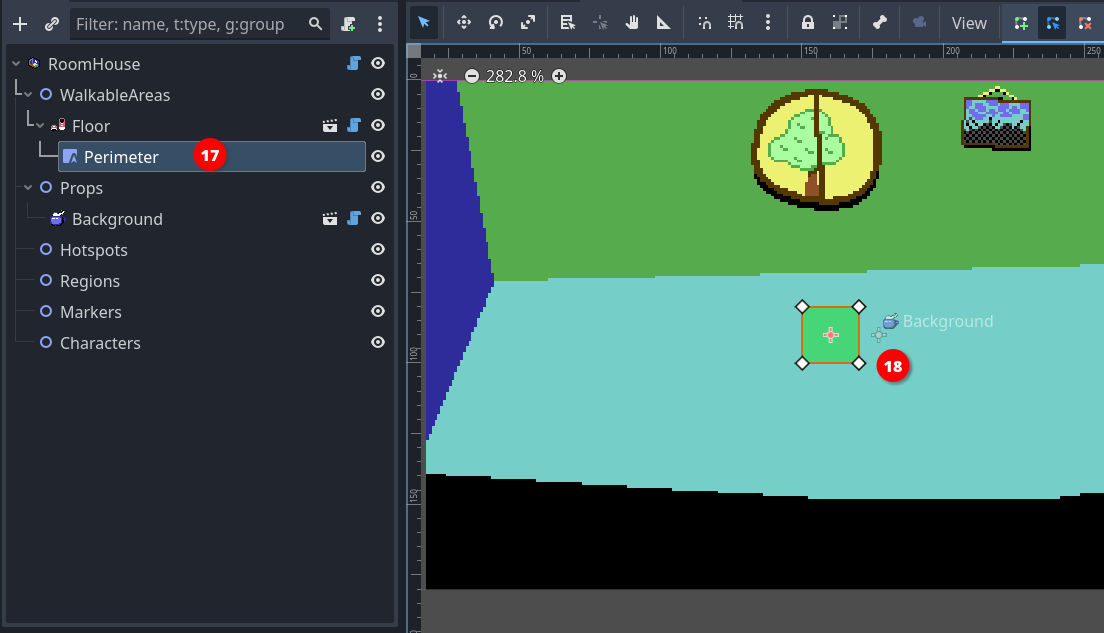
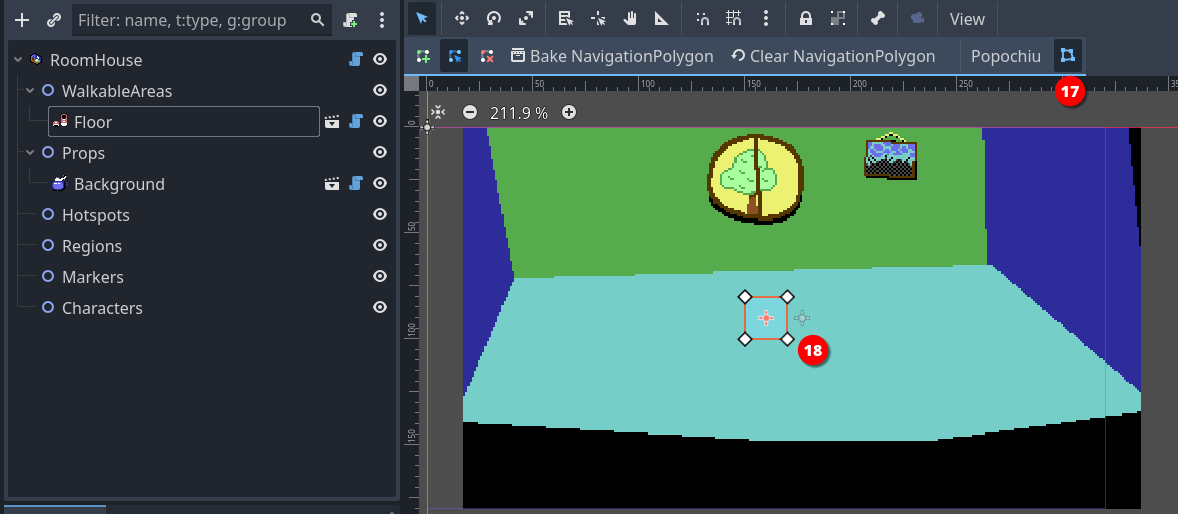
refs #40: Documentation section for the GUIs. (#261)
* refs #40: WIP on the documentation section for the GUIs.
* WIP fixed a mistyped warning block.
* refs #40: Small rephrasing.
* refs #40: "Getting Started" section on GUIs is complete and should introduce new users to the main concepts.

diff --git a/docs/src/getting-started/creating-a-game-stub/customize-the-game-ui.md b/docs/src/getting-started/creating-a-game-stub/customize-the-game-ui.md
@@ -1,0 +1,224 @@
+---
+weight: 1570
+title: Customize the Game UI
+---
+
+## Customize the Game UI
+
+!!! warning "Disclaimer"
+	GUIs are an important part of the player's experience and, among the many aspects that all adventure games have in common, it's the one that tends to get more customization and personal touches.
+
+	The variety in the GUIs panorama makes them a complex topic, one that requires **dedicated effort** and some **solid Godot-related skills** to give good results.
+
+	We will eventually provide a complete guide for custom GUIs that will cover every aspect, but this is out of the scope of this tutorial, at the moment.
+
+
+Is that a wrap? Not yet! We are missing one very important bit: the User Interface for your game (GUI).
+
+When you think about an adventure game, the first thing that comes to your mind are the elements of the story: interesting characters, challenging puzzles, the visual style... those are the things that every adventure game, from the seminal _King's Quest_ to the last _Syberia_ act, have in common.
+
+But what differentiates your experience as a player beyond the game content, is how you interact with the game.
+
+For this last chapter of our _Getting Started_ guide, we are going to explain the basic concepts and anatomy of a Popochiu game's interface and show you how to customize the appearance of one of the predefined GUIs.
+
+!!! note
+	As we noted back in the [Game Setup](/getting-started/game-setup) chapter, Popochiu provides different GUIs you can use in your game, and more will be added in the future.  
+	The concepts we'll explore in the upcoming paragraphs apply to every current and future GUIs, but - per the considerations above - applying them to different GUIs may be non-straightforward and require a bit of fiddling and understanding. Be ready to roll your sleeves and don't forget to [ask for help in our community](getting-started/getting-help).
+
+
+### Anatomy of a GUI in Popochiu
+
+When you setup a new game, Popochiu creates a directory named `gui` under your `game` folder (_32_).
+
+The content of this directory is a _configured copycat_ of a template that contains the base GUI, which sits in the `addons/popochiu/objects/graphic_inerface` and **must be left untouched**!
+
+
+![The GUI folder structure](../../assets/images/getting-started/game_stub-guis-32-filesystem.png)
+
+Everything you need to configure your GUI is in the `game/gui` directory.
+
+The most important files (_33_) are:
+
+1. `gui.gd`: this script contains the wiring logic for the interface. Usually the bulk of it is made by functions to process signals triggered by the UI element.
+2. `gui.tscn`: this scene holds all the interface elements and it's initialized by the engine when the game starts. The elements in the scene are put on a dedicated layer to make them accessible.
+3. `gui_commands.gd` script: this very important file holds the declaration of the GUI **commands**, a concept that Popochiu implements to make processing events coming from the GUI easier in the game scripts.
+
+!!! info "A brief about Commands"
+	This tutorial won't go deep into the topic of Commands. Also, the _2-Click Context Sensitive_ interface is very light on Commands implementation because of its very nature.  
+	**Feel free to jump this info box if you just want to customize the interface appearence.**
+
+	A quick way to understand commands is this: think of the Lucas 9-Verbs interface, the Sierra SCI interface, and the "Sam & Max" or "Broken Sword" icon-based interfaces. All are very **different in shape**, but they have in common that **you can select an action to perform** when you interact with a game object.  
+	For example, you can _Pick up_ an item; you can _Examine_ or _Talk to_ a character; _Use_, _Push_ or _Give_ an object; _Walk_ around and so on.
+
+	Commands are just this, **a set of valid actions** that are exposed by your interface, that can be attempted on every clickable game object (inventory items, props, characters, hotspots).
+	
+	Unlike almost every single Adventure Game Engines out there, Popochiu makes no assumption on those _valid actions_ but instead, gives you a framework to:
+
+	* **Register** the Commands you need (you decide which ones)
+	* **Activate** them by your GUI elements (you decide the wiring)
+	* **Trigger** them by clicking on a game object
+	* **Process** different logic in your game scripts, depending on the triggered command
+
+	Granted, this requires a bit of work when you design the interface, but the lack of assumptions won't make you jump through hoops because of design choices made by the wrong people: _us_!
+
+## The GUI scene
+
+If you open the `gui.tscn` file (_34_), you will see the _SimpleClick_ GUI's scene, that's made like this:
+
+![The GUI scene in the editor](../../assets/images/getting-started/game_stub-guis-34-gui-scene.png)
+
+As mentioned, a single scene contains all of the GUI elements. You can see them arranged in the scene editor (_35_), and how they are organized in the scene tree (_36_).
+
+### GUI Elements overview
+
+The scene file, as well as the command and script ones, will differ quite a lot between different scene templates.
+
+There is nothing that's inherently mandatory in every single interface, and this is both good and bad news. Good, in that you can go wild with every interface idea you can dream of - no constraints. Bad in that there are little rules to follow when creating custom GUIs.
+
+All the provided interfaces though, share some common and usually necessary elements:
+
+* The **Cursor** node is there to hold the animations used by the actual mouse pointer.
+
+  	!!! warning
+  		At the time of writing, this is NOT the actual cursor that will be shown by the engine. Popochiu will just rob this node of its animations but will ignore all the other properties. For example, changing the size or modulation of this node, won't affect the cursor at all.  
+		We plan to change this in the future, for convenience.
+
+* The **DialogCaption** is the element that will show what the characters say in the game. This node has its scene, that provides a configurable set of variations, like "above the head" text, to text panel, with or without a character portrait, to caption text displayed at a fixed position.
+* The **DialogMenu** is the panel on which you select the dialog lines. This can be changed to an icon bar (as in "Sam & Max Hit the Road") or any other stuff, but it's pretty common in its basic form (scrollable list of phrases).
+* The **Popups**: conveniently grouped under their control parent, are those "in game" windows used to save and load games, configuring settings, maybe displaying the inventory, and otherwise showing messages to the user.
+
+Other elements are specific to this interface, like the **InventoryBar** and **SettingsBar**, that in the _SimpleClick_ interface, appear on top of the screen when hovered with the cursor.
+
+In more graphically "explicit" (and cluttered) interfaces, like Sierra and 9 Verbs, you can find more elements, arranged in different order. For example the verbs panel and the inventory grid are pretty complex elements in the 9-Verbs UI, while the inventory appears in a grid overlay in the Sierra one.
+
+!!! info "Under the hood"
+	To guarantee a strong degree of decoupling, the GUI elements are wired to the rest of the game with signals. The logic to process those signals is in the `gui.gd` script of every interface.
+
+	We are not going to detail this now, but those who are skilled in programming (or who feel more adventurous) should feel free to take a look.
+
+### How to visually customize your GUI
+
+Now that we have a broad idea of how a GUI is organized, it should be easy to recognize the various elements in the running game.
+
+Customizing them requires a bit of exploration though. Because of the way Godot manage the visual style of controls, there is nothing like a "single source of truth" for how an element appears.
+
+The good news anyway is that Popochiu does it's best to reason in a "cascading" way, setting the standard with a base theme and overriding only what's necessary in the single elements.
+
+!!! tip
+	We tried to be as clear as possible. If you get lost in this section, you may want to go learning some bits of Godot that will make everything easier to follow:
+
+	* [Themes](https://docs.godotengine.org/en/stable/tutorials/ui/gui_skinning.html#basics-of-themes)
+	* [Theme Editor](https://docs.godotengine.org/en/stable/tutorials/ui/gui_using_theme_editor.html)
+    * [Size and anchors](https://docs.godotengine.org/en/stable/tutorials/ui/size_and_anchors.html)
+	
+	We strongly suggest you take the time to learn about Godot theming and skinning concepts, as well as gain confidence with the theme editor to make the most out of this tutorial.
+
+#### The GUI styling cascade
+
+##### 1. Theme
+
+If you try our the various GUIs that Popochiu provides out of the box, you will notice that they share a common style: transparent black panels, a single font for every button and label, some custom control like check buttons, sliders, etc.
+
+These features are all defined in a base theme, that Popochiu makes available to you at `game/gui/resources/gui_theme.tres`. Double-click it in the file system (_37_) tab to open the Godot theme editor (_38_):
+
+![Base GUI theme editor](../../assets/images/getting-started/game_stub-guis-35-theme-editor.png)
+
+From here, you can set a large number of properties for each Control node. For example, let's change the color of the panels to a bright, translucent red.
+
+!!! info
+	If you're new to Godot GUIs, when we mention _Control nodes_, we mean all nodes that inherit from the _Control_ node-types. These node types are all dedicated to implementing your game user interfaces. Popochiu leverages these node types, not reinventing the wheel, and extends them to create convenient variants.
+
+![Select PanelContainer node type](../../assets/images/getting-started/game_stub-guis-35-theme-editor-example.png)
+
+
+The **Type** dropdown contains every node type for which this theme specify a style. What's not mentioned here is simply rendered with the default Godot theme. You can see the list of custom controls is pretty short. Not much is needed for an adventure game, usually!
+
+Select **PanelContainer** node type (_39_), to see the theme rules that apply to that node.
+
+![Edit the style settings](../../assets/images/getting-started/game_stub-guis-35-theme-editor-example_2.png)
+
+Each node has the same set of tabs in the property areas. Some will apply and some will not, depending on the node type (for example, setting a font for an element which renders no text won't be possible).  
+We are going to open the **Style** tab and we'll find out that a custom style is applied to the **panel** property already (_40_). The value is of type _StyleBoxFlat_, an object that represents a (you don't say?!) flat-colored area.
+
+As every other Godot resource, clicking it opens the inspector. You can find the **BG Color** property right on top of it. Change it to a bright red and see what happens in your GUI scene.
+
+You can test your game too, if you want to lose some diopters.
+
+!!! warning
+	Don't forget to **Save** your theme, by clicking the button at the top right of the Theme Editor!
+
+##### 2. Theme overrides
+
+The base theme sets a standard for colors, fonts, margins and alignments, but GUI elements has this tendency to be _very contextual_. They may need some touches to their look depending on where they appear.
+
+For example, some buttons may need a bit more margin around their content, or maybe they need to be rendered without their translucent black background in a specific position.
+
+For that, the best option is resorting to **Theme Overrides**. These are settings that apply not to a node types, but only to a specific node in a scene.
+
+One example is the **HoverText** scene in the _SimpleClick_ GUI. Open the scene and you will see that the **Label** node therein (_42_) gets rendered with a nice text outline (_43_), which is nowhere to be found in the `gui_theme.tres`.
+
+![Theme overrides](../../assets/images/getting-started/game_stub-guis-35-theme-overrides.png)
+
+This is needed because that element may be rendered anywhere on the screen, sometimes over the mouse pointer, to represent hotspot, props or character names, so the white label can get unreadable on a bright scene background. Putting a high-contrast (black) outline will make it always stand out enough.
+
+Since this property is very specific to this node, we set it as a theme override (_44_). Godot highlights the properties sets that are subject to a change. Go and see yourself how we set up that specific outline.
+
+Remember to do this when you have an element that should not behave as the standard ones.
+
+##### 3. Controls layout
+
+Each Control node has a very convenient set of properties under the **Layout** category in the inspector.
+
+![Control layout](../../assets/images/getting-started/game_stub-guis-35-control_layout.png)
+
+While a theme sets the visual aspect of controls, it's on the layout of each single control that you define its behavior in relation to the surrounding elements.
+
+Do you want a button to shrink to the minimum possible size and align to the center-left of its container? Do you want to set a minimum size for the button so that if the context gets cluttered, it won't become unreadable? Or maybe you want it stuck in a specific position on the screen? That's where you define such behaviors.
+
+Make sure you review the official documentation to fully understand how to use these properties.
+
+##### 4. Textures and atlases
+
+Some elements, like the mouse cursor, or some menu buttons, are rendered as images. The most evident example in the _SimpleClick_ GUI is the **SettingsBar** element.
+
+Open the scene and you will see that each button (_47_) is a _TextureButton_ node (_48_).
+
+![Texture buttons](../../assets/images/getting-started/game_stub-guis-35-texture_buttons.png)
+
+!!! note
+	In this very case, the nodes are of type _PopochiuSettingsBarButton_ because we needed all of them to have a couple very specific properties, but you can see in the inspector that they are _TextureButtons_ too.
+
+As you can see, the textures applied to the _Normal_, _Pressed_ and _Hovered_ states for the buttons are of type _AtlasTextures_. That's because the icons PNG are saved as a tileset, with each state of a specific color:
+
+![A texture button source example](../../assets/images/getting-started/game_stub-guis-35-texture_buttons_source.png)
+
+An _AtlasTexture_ allows you to specify a specific region (_50_) of this source file, so you hold all the same icons state together and your file system stays tidy:
+
+![The atlas setting for a button](../../assets/images/getting-started/game_stub-guis-35-texture_buttons_atlas.png)
+
+
+You are not forced to use an Atlas or anything else than a simple texture for your elements.  
+Actually, if you don't like the standard button icons, and want to change or recolor them, you just have to edit the source PNG files.
+
+Unless you change the size of the single tiles, you will see the updated icons as soon as you save them in your graphics editor of choice.
+
+!!! note
+	We didn't mention that here, but if you want to make without a specific function (for example, if you don't want your users to change the text preferences, or see the game action log), you can just hide these buttons in the scene _et voilà_.
+
+##### 5. Scripts
+
+The last bit of customization are the script attached to each GUI component.
+
+The logic in there really depends on the function and design of the component. That's probably what makes a GUI unique and really change the experience of the player.
+
+Popochiu wire the GUIs and to the Engine events by signals and commands. This architecture ensures a very loose coupling between the GUI and the Engine, that allows for easier upgrades of the engine during the development of a single game.
+
+Also, each element has its short and to the point script, and communicates with others by signals, using the `gui.gd` script attached to each GUI's root node as a signal bus.
+
+Providing a full list of signals is out of the scope of this guide, but we'll soon provide a reference and a dedicated walkthrough on how to create a custom GUI from scratch.
+
+For the scope of this guide, if you did follow along with this paragraph, you are encouraged to edit and evolve the scripts as you want!
+
+---
+
+**Congratulations! You've got to the end of this introductory guide!**

diff --git a/docs/src/getting-started/creating-a-game-stub/create-the-first-room.md b/docs/src/getting-started/creating-a-game-stub/create-the-first-room.md
@@ -81,9 +81,9 @@ In the Room tab of Popochiu dock, click the **Create walkable area** button (_16
 
 In the popup window, just name your new walkable area "_Floor_" (or whatever you find descriptive enough). Click **OK** and a new element will be added to the scene.
 
-![A new walkable area in the scene tree](../../assets/images/getting-started/game_stub-room-8-wa_scene_tree.png "Select the Perimeter node to edit the area shape")
+![A new walkable area in the scene tree](../../assets/images/getting-started/game_stub-room-8-wa_scene_tree.png "Click the Edit Polygon button to edit the area shape")
 
-Selecting the **Perimeter** node in the scene tree (_17_) to highlight a squared polygon in the center of the scene. Now you have to adjust the vertices of that polygon (_18_) to whatever makes sense.
+Click the **Edit Polygon** button in the toolbar (_17_) to highlight a squared polygon in the center of the scene. Now you have to adjust the vertices of that polygon (_18_) to whatever makes sense.
 
 !!! tip
     To adjust the polygon, just click and drag the vertice handles around.  
@@ -91,12 +91,14 @@ Selecting the **Perimeter** node in the scene tree (_17_) to highlight a squared
 
 When you have adjusted your walkable area, it should look something like this:
 
-![The polygon for the floor is over](../../assets/images/getting-started/game_stub-room-9-wa_bake_polygon.png "Click 'Bake NavigationPolygon' to complete the walkable area")
+![The polygon for the floor is over](../../assets/images/getting-started/game_stub-room-9-wa_bake_polygon.png "Click "Edit Polygon" again to complete the walkable area")
+
+Click the **Edit Polygon** button again (_19_)to stop editing the perimeter of the floor.
 
 Save the project and run your game. Your character should now be able to move around the room, without leaving the area you defined.
 
 !!! note
-    If you aren't new to Godot, you may think we forgot to mention the **Bake** NavigationPolygon** button in the toolbar (_19_). That's not the case, Popochiu bakes the polygon for you.
+    If you aren't new to Godot, you may think we forgot to mention the **Bake NavigationPolygon** button in the toolbar (_19_). That's not the case, Popochiu bakes the polygon for you.
 
 !!! tip
     You usually don't want your walkable area to cover the entire floor that you painted, or your character will be able to stand on the very border of it, too near the wall, creating a terrible effect.  
@@ -139,8 +141,8 @@ Let's draw a shape around the window on the wall:
 
 No need to be too precise or polished, rough edges won't be perceivable while playing your game. You just need to avoid, if possible, overlapping with other hotspots (see "_Baseline_" below, to understand how polygon overlapping works).
 
-Another important property of the hotspot is the "_Walk to point", which is the coordinates that the character will reach when you click over the hotspot.  
-You can set these coordinates interactively by clicking and dragging the "_Walk To point_" gizmo wherever you want in the room. You will see that the property with the same name in the inspector will update to reflect the coordinates.
+Another important property of the hotspot is the "_Walk to point_", which is the coordinates that the character will reach when you click over the hotspot.  
+You can set these coordinates interactively by clicking and dragging the **Walk To point** gizmo wherever you want in the room. You will see that the property with the same name in the inspector will update to reflect the coordinates.
 
 For our example room, we'll set the following coordinates for the `Window` hotspot:
 
@@ -156,7 +158,7 @@ The last property that you want to set is the _Baseline_. The baseline is simply
 
     That's not the case at all. If you don't set your baseline the right way, the polygon-delimited area of the hotspot may remain clickable even when the character is in front of it; or the other way around, a hotspot that should always be in front of the scene, may be covered by your character, making it unreachable. So, **always** set your baseline.
 
-Our window is in the back of the room and the main character has no way to be placed behind it, so just click the baseline gizmo handler (the square in the middle of the line) and drag it at the very top so that the baseline is "as high as the scene" (or more). The character has no way to walk so high.  
+Our window is in the back of the room and the main character has no way to be placed behind it, so just click the **Baseline** gizmo handler (the square in the middle of the line) and drag it at the very top so that the baseline is "as high as the scene" (or more). The character has no way to walk so high.  
 
 !!! info
     You can set the baseline even to negative values. This is what Popochiu automatically does when you name your prop `Background` or `bg`, to make sure your background is always at the very back of the scene. Keep this in mind too, if you change the baseline of other elements programmatically (via a script).

diff --git a/docs/src/getting-started/creating-a-game-stub/create-characters.md b/docs/src/getting-started/creating-a-game-stub/create-characters.md
@@ -60,21 +60,26 @@ Fixing this is as simple as selecting the **Sprite2D** node in the character sce
 
     In the case of floating characters (ghosts, fairies, anti-gravity-powered mad scientists, etc), you should leave some vertical space between the scene's center and your character. Try to envision the scene line as the "floor" and decide how high above the floor the character should float.
 
-The last thing to do is to position the place where the dialog text will be shown for the talking character. Popochiu can be customized to show dialog lines in many different positions or fashions, but its default is to show the dialogue lines somewhere above the character's head. Since the engine doesn't know how high your sprite is (see "Under the hood" note below), that's for you to decide.
+The last thing to do is to position the place where the dialog text will be shown for the talking character. Popochiu can be customized to show dialog lines in many different positions or fashions.  
+The GUI template we selected shows the dialog lines as a caption at the bottom of the screen, but other ones show the dialogue lines somewhere above the character's head. We are going to see how to position the text for those interfaces that use the _over head_ dialogues style.
 
-Just select the **DialogPos** node in the scene tree (_11_). A small cross will be highlighted in the scene's origin. Drag it somewhere above the character's head (or wherever makes sense to you).
+Since the engine doesn't know how high your sprite is (see "Under the hood" note below), that's for you to decide.
+
+For this, select the character's rood node in the scene tree, and you will see a small purple square at the scene's origin. Drag it somewhere above the character's head (or wherever makes sense to you). As you see the square is labeled and connects to the element it refers to.
+
+If you see no square, make sure the **Dialogue Position Gizmo** is visible by checking the state of the button in the toolbar (_11_).
 
 ![Correct Character's text position](../../assets/images/getting-started/game_stub-character-10-set_dialog_position.png "Position the dialogue where it's more convenient")
 
-This may require a bit of experimentation, but for now, this will do.
+Finding the best positioning for the "voice" of each character may require a bit of trial and error, but for now, this will do.
 
 !!! info "Under the hood"
-    You may be wondering how exactly the text is positioned in relation to the **DialogPos** node. Here is an explanation of how Popochiu decides how your text is rendered.
+    You may be wondering how exactly the text is positioned in relation to the **Dialog Position** gizmo. Here is an explanation of how Popochiu decides how your text is rendered.
 
-    1. The baseline of the text will always match the vertical position of **DialogPos**, so the text will be rendered vertically **right above** that point.
-    2. The dialog line length is calculated and the text is centered on the horizontal position of **DialogPos**, so the text will be rendered horizontally **around** that point.
+    1. The baseline of the text will always match the vertical position identified by the gizmo, so the text will be rendered vertically **right above** that point.
+    2. The dialog line length is calculated and the text is centered on the horizontal position of gizmo, so the text will be rendered horizontally **around** that point.
     3. If the text spans multiple lines, Popochiu will expand it **towards the top**, so that it doesn't cover your character (this means if you want your text under the character for some reason, multiple lines will cover your character).
-    4. If the character is near the window or screen border, the text will be repositioned so that it will be entirely visible, so you don't have to worry about it becoming unreadable. This is true both for horizontal and vertical coordinates.
+    4. If the character is near the window or screen border, the text will be repositioned so that it will be entirely visible, so you don't have to worry about it becoming unreadable. This is true both for horizontal and vertical coordinates. Of course, long texts may overlap the character sprint in that case, but it's for good.
 
 ### Add another character
 

diff --git a/docs/src/getting-started/creating-a-game-stub/game-setup.md b/docs/src/getting-started/creating-a-game-stub/game-setup.md
@@ -44,20 +44,19 @@ Finally, the **Game type** (_3_) select box will set a bunch of project settings
 
 ### Select game GUI
 
-Since version 2.0, Popochiu comes with a preset of different GUI templates, and a set of features to create your own custom one.  
-GUI templates will contain everything you need, from assets to logic, to mimic one of the most common game interfaces of the Adventure genre.
+Since version 2.0, Popochiu comes with a preset of different GUI templates, and in the next version, it will provide a set of features to create your own custom one.  
+Preset GUI templates will contain all the assets and logic thay you need to mimic some of the most common game interfaces of the Adventure genre.
 
 In the **GUI Template** (_4_) section of the Setup popup, you can click on a GUI icon to select which template to apply:
 
-* **Custom**: select this if you want to create your GUI. That's the "No template, please" option.
-* **9 Verbs**: inspired by the original SCUMM interface, first seen in _Monkey Island 2: LeChuck's Revenge_.
-* **Sierra**: inspired by the early 90s SCI interface, common to _King's Quest_ and _Space Quest_ games in the early 90s.
-* **2-Click Context-sensitive**: the most basic interface for an Adventure Game, common to many modern titles like _Deponia_ - left-click to walk and interact, right-click to examine.
+* **9 Verbs**: inspired by the original SCUMM interface, first seen in _Maniac Mansion_, but getting its final form with _Monkey Island 2: LeChuck's Revenge_, and used by many games up to the recent _Thimbleweed Park_.
+* **Sierra**: inspired by the early 90s SCI interface, common to _King's Quest_ and _Space Quest_ series. It took many forms, always specific to Sierra games. Very useful for projects that want to bring back that historical interaction patterns.
+* **SimpleClick**: the most basic and straightforward interface for an Adventure Game, common to many modern titles like _Deponia_ - left-click to walk and interact, right-click to examine. This version is influenced by early PowerHoof productions.
 
 !!! warning
-    You can change your mind and apply a different template later during the development of your game, but mind that doing this will **replace** your GUI (and all the custom logic or graphics) with a new template.
+    You can change your mind and apply a different template later during the development of your game, but doing this will **replace** your GUI (and all the custom logic or graphics) with a new template.
 
-    Also, keep in mind that some GUIs will take up space on the screen (like the 9 Verbs one), and this will impact your backgrounds.
+    Also, keep in mind that some GUIs will take up space on the screen (like the 9 Verbs one), so please, consider this when designing your backgrounds.
 
 !!! note
     You can go back and review your game setup choices at any moment, by clicking the "Setup" button at the bottom of the [Popochiu Main Dock](#TODO).

diff --git a/docs/src/getting-started/creating-a-game-stub/use-inventory-items.md b/docs/src/getting-started/creating-a-game-stub/use-inventory-items.md
@@ -28,4 +28,8 @@ Save the script and run the game. Pick the toy car up, select it from the invent
 
 You should see the dialog happen, and the car is removed from your inventory.
 
-**Congratulations! You've got to the end of this introductory guide!**
+Well, our game is done, right? It seems like we addressed everything: locations, characters, dialogues, interactions with the environment and the use of inventory items.
+
+But one last bit is missing and it's the way the player interacts with all of this: the GUI.
+
+Let's take a glance at how to customize one of the already available Popochiu game interfaces.

diff --git a/docs/src/getting-started/creating-a-game-stub/conclusions.md b/docs/src/getting-started/creating-a-game-stub/conclusions.md
@@ -1,5 +1,5 @@
 ---
-weight: 1570
+weight: 1580
 ---
 
 ## Conclusions
